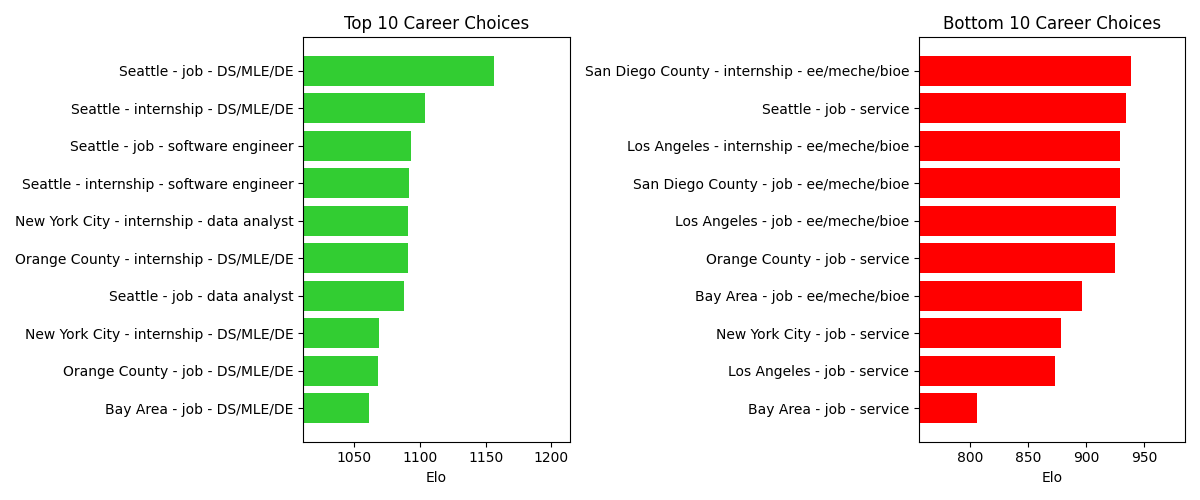
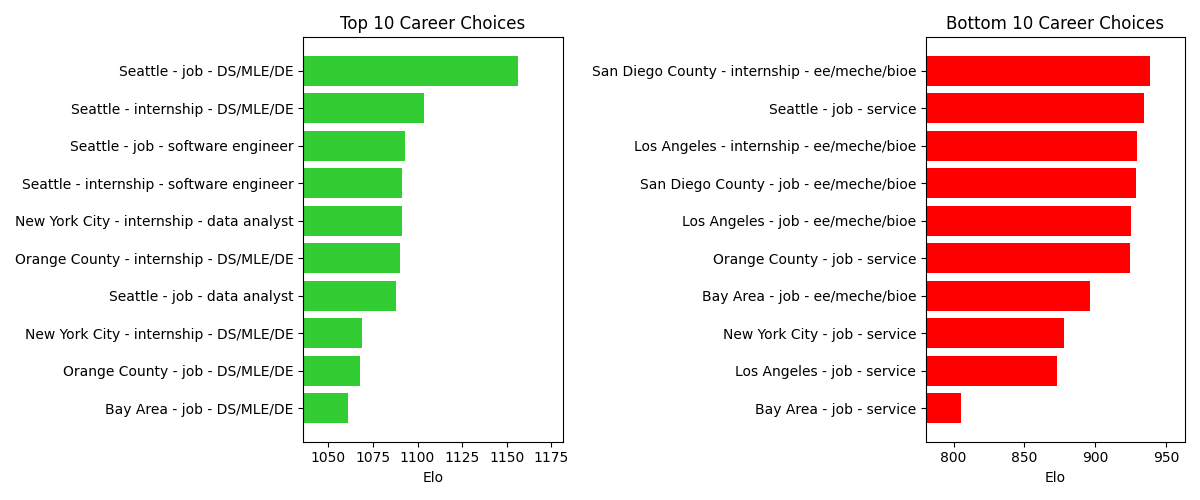
Update params of visualization

diff --git a/visualize.py b/visualize.py
@@ -11,7 +11,7 @@ def sort_dict_asc(dic: dict) -> list | list:
 	return sorted_keys, sorted_vals
 
 def generate_two_barh(labels: str, values: float, k: int = 10, save_path: str ="summary_stats.png",
-	tick_rot: int = 0, xlim: int = 50) -> None:
+	tick_rot: int = 0, xlim: int = 25) -> None:
 	
 	y_pos = np.arange(len(labels[-k:]))
 
@@ -22,7 +22,7 @@ def generate_two_barh(labels: str, values: float, k: int = 10, save_path: str ="
 	top_vals = values[-k:]
 	plt.barh(y_pos, top_vals, color='limegreen') # label-value pairs are sorted in asc order so grab top k
 	plt.yticks(y_pos, top_labs, rotation=tick_rot)
-	plt.xlim(left=top_vals[0]-xlim)
+	plt.xlim(left=top_vals[0]-xlim, right=top_vals[-1]+xlim)
 	plt.title(f"Top {k} Career Choices")
 	plt.xlabel("Elo")
 
@@ -31,7 +31,7 @@ def generate_two_barh(labels: str, values: float, k: int = 10, save_path: str ="
 	bot_vals = values[:k]
 	plt.barh(y_pos, bot_vals, color='red')
 	plt.yticks(y_pos, bot_labs, rotation=tick_rot)
-	plt.xlim(left=bot_vals[0]-xlim)
+	plt.xlim(left=bot_vals[0]-xlim, right=bot_vals[-1]+xlim)
 	plt.title(f"Bottom {k} Career Choices")
 	plt.xlabel("Elo")
 
